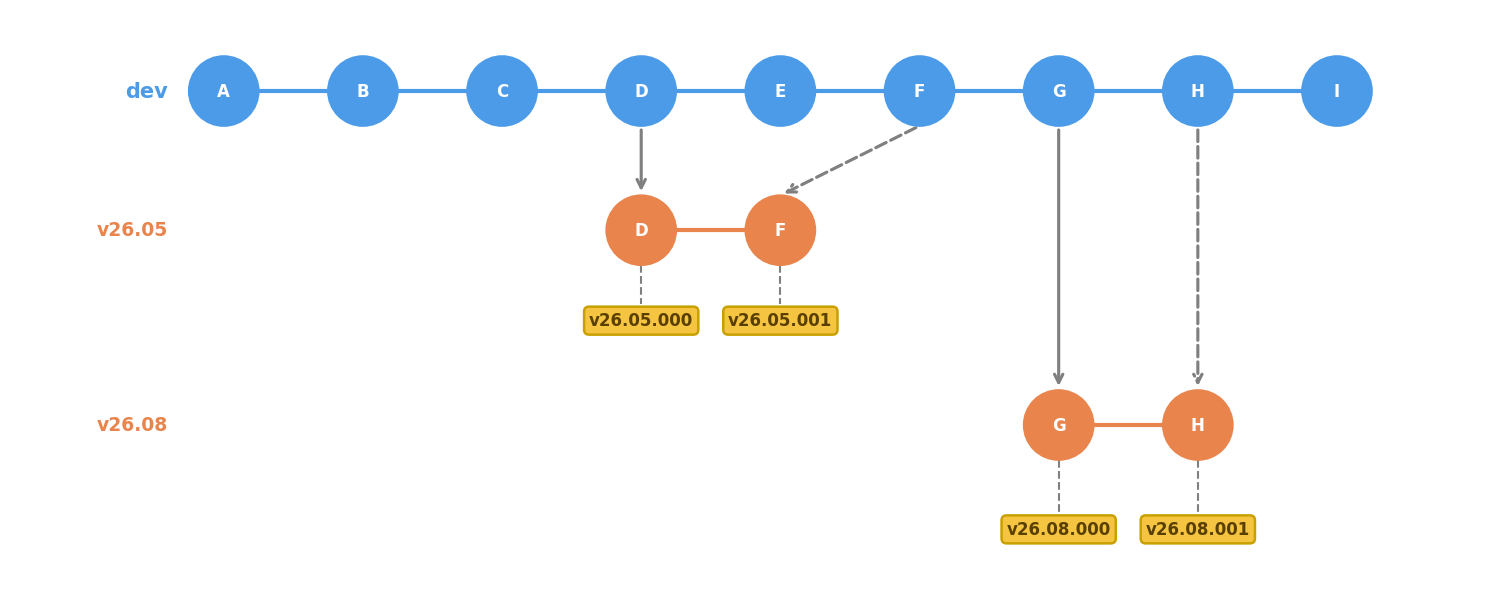
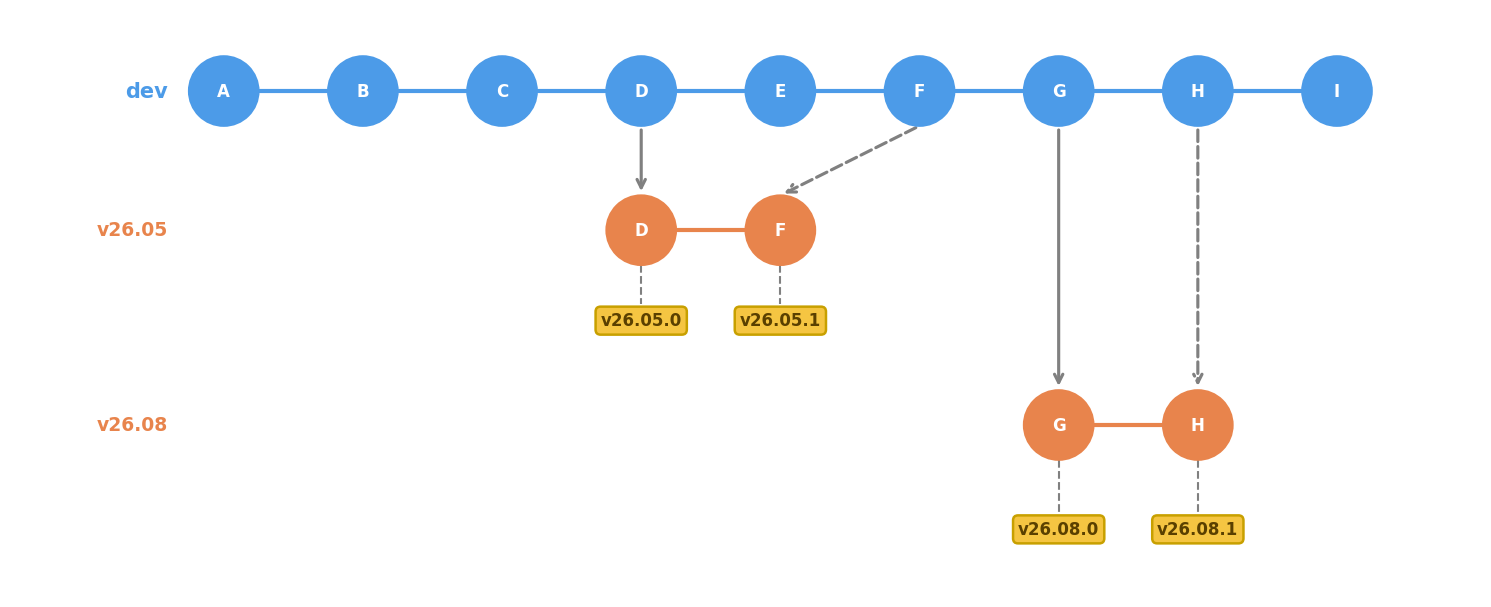
Remove zero-padding from patch versions

Changed region(s): [[0.3702, 0.5041, 0.5862, 0.5634], [0.6479, 0.8303, 0.8638, 0.9193]]

diff --git a/proposals/release_branches/README.md b/proposals/release_branches/README.md
@@ -34,8 +34,8 @@ allowing for up to 999 patches to a release, which should be more than enough.
 ![Branch diagram showing dev branch with per-release branches v26.05 and v26.08, each with patch release tags](branch_diagram_proposed.png)
 
 In this diagram, both the `v26.05` and `v26.08` branches have two tags
-indicating releases for those versions: the `.000` tag for the initial release
-and a `.001` tag indicating a patch release containing a cherry-picked change
+indicating releases for those versions: the `.0` tag for the initial release
+and a `.1` tag indicating a patch release containing a cherry-picked change
 from `dev`.
 
 This change in structure will be applied beginning with the next release
